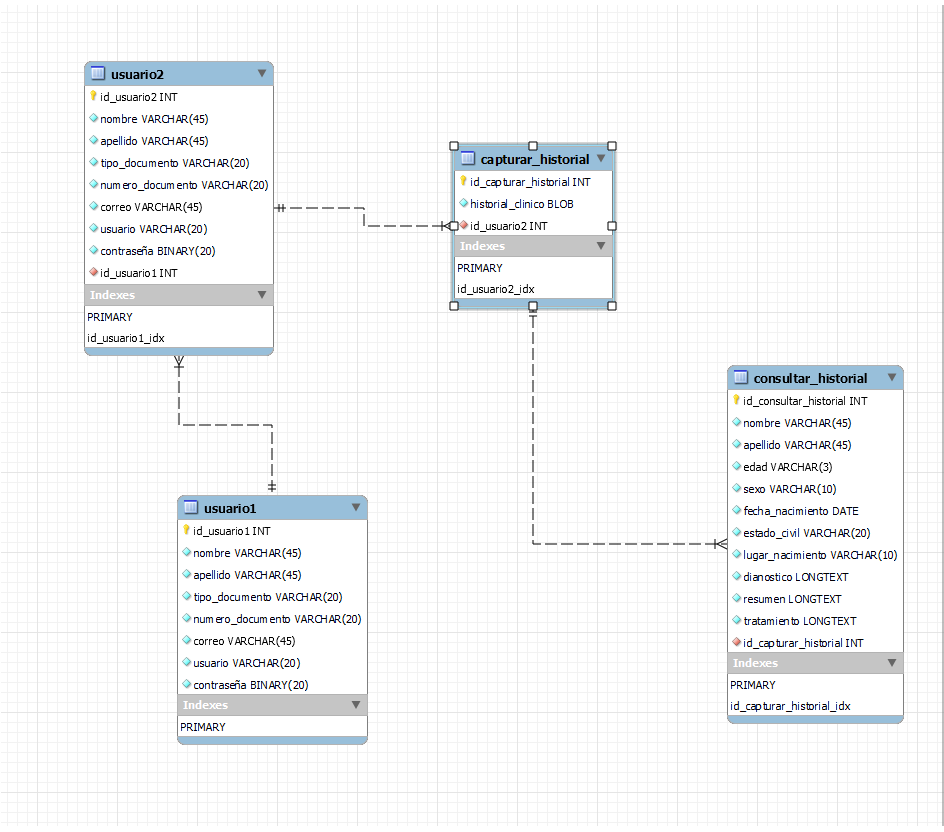
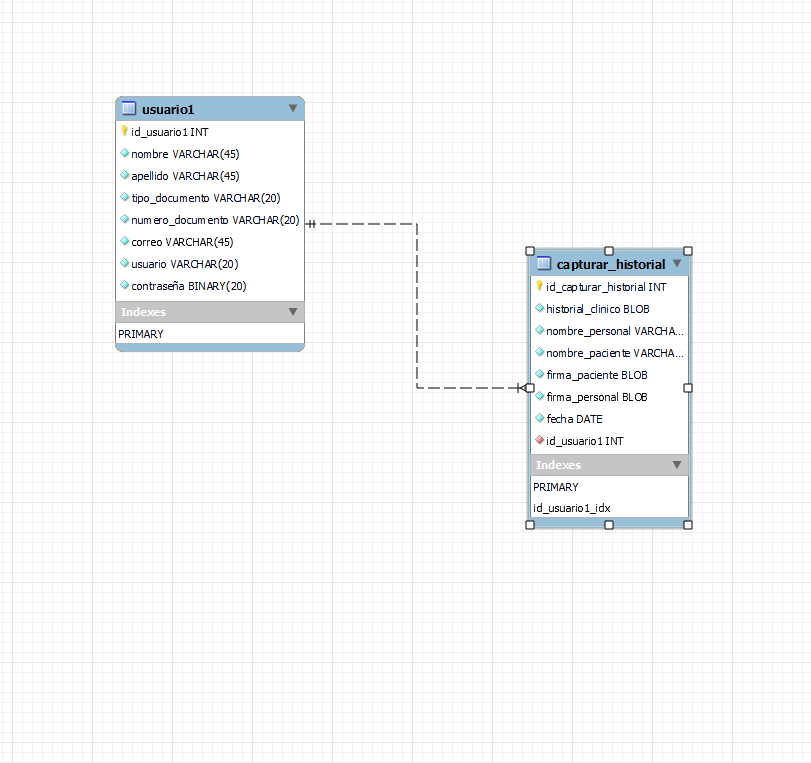
final

diff --git a/historiapp/AppComponent.ts b/historiapp/AppComponent.ts
@@ -1,0 +1,27 @@
+import { Component } from '@angular/core';
+
+
+
+@Component({
+    selector: 'app-root',
+    templateUrl: 'C:/wamp64/www/SenaSoft_G-4/historiapp/validacion_firma.html',
+    styleUrls: ['C:/wamp64/www/SenaSoft_G-4/historiapp/validacion_firma.css']
+})
+
+
+
+
+export class AppComponent {
+    uploadfile(event) {
+        if (event.target.files && event.target.files[0]) {
+            const file = event.targe.files[0];
+            const reader = new FileReader();
+            reader.readAsArrayBuffer(file);
+            reader.onloadend = (evt) => {
+                const result = evt.target.result as ArrayBuffer;
+                console.log(result);
+            };
+
+        }
+    }
+}

diff --git a/historiapp/validacion_firmas.html b/historiapp/validacion_firmas.html
@@ -1,0 +1,5 @@
+
+    <div class="firma">
+        <input type="file" accept="imagen/*" (change)="uploadfile($event)">
+
+    </div>

diff --git a/historiapp/validacion_firmas.css b/historiapp/validacion_firmas.css
@@ -1,0 +1,6 @@
+.firma {
+    display: flex;
+    justify-content: center;
+    margin-top: 30px;
+
+}

diff --git a/historiapp/validacion_firma.ts b/historiapp/validacion_firma.ts
@@ -1,0 +1,3 @@
+
+
+
